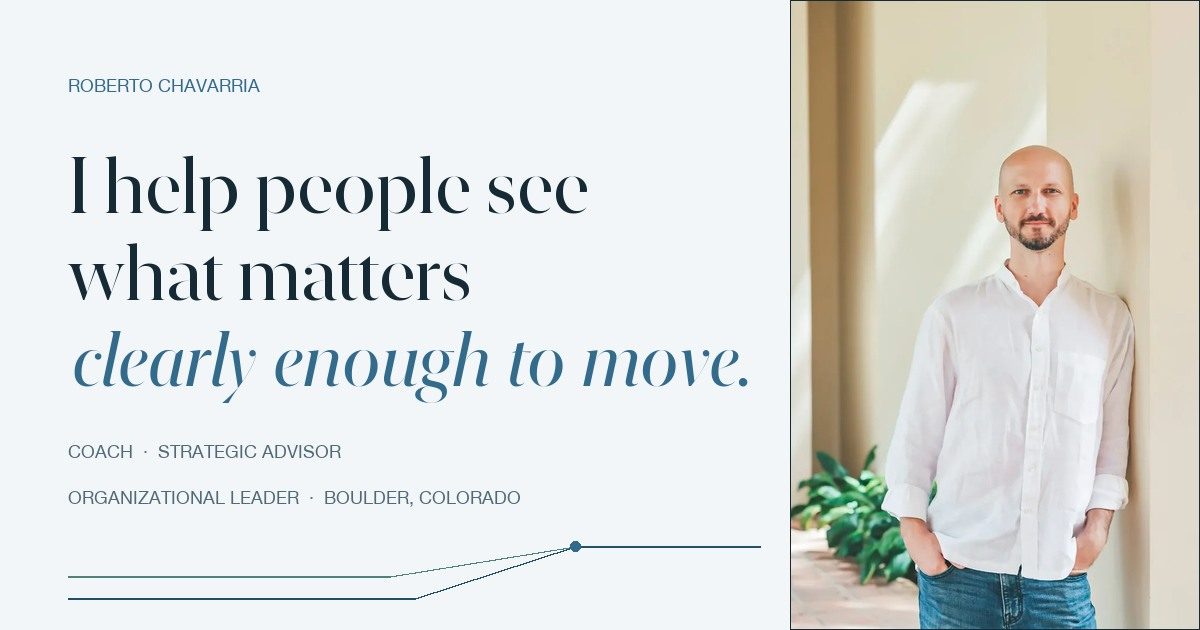
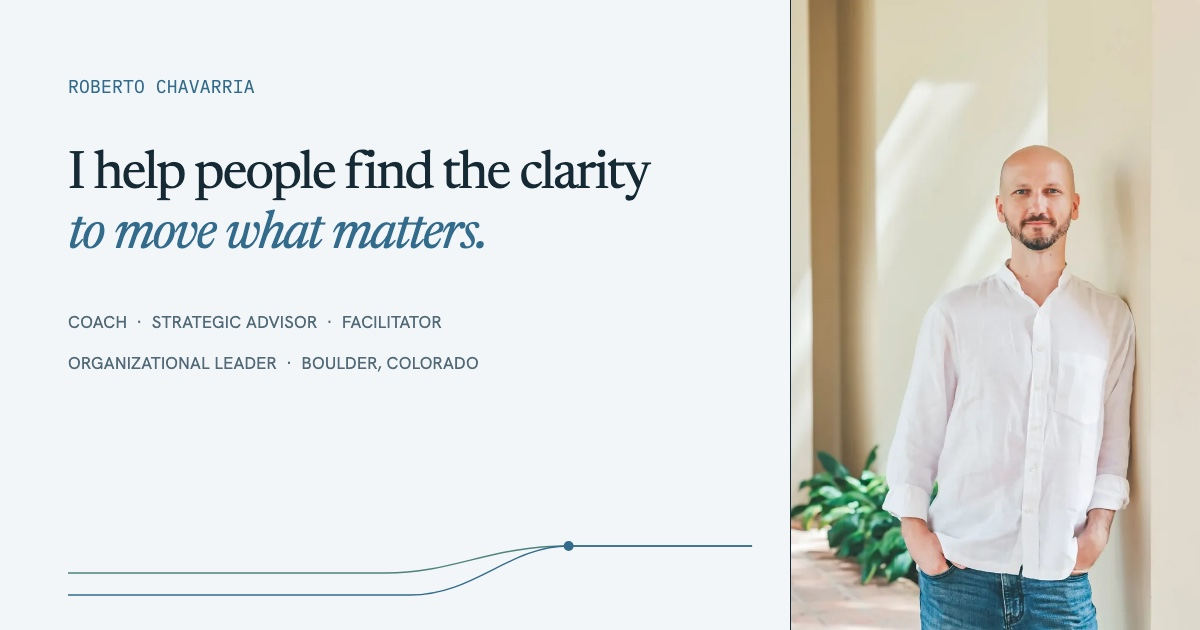
refresh personal site positioning and current work

diff --git a/index.html b/index.html
@@ -3,10 +3,10 @@
   <head>
     <meta charset="utf-8">
     <meta name="viewport" content="width=device-width, initial-scale=1">
-    <title>Roberto Chavarria — Coach, strategic advisor, organizational leader</title>
+    <title>Roberto Chavarria — Coach, strategic advisor, facilitator</title>
     <meta
       name="description"
-      content="Roberto Chavarria works through Emerging Clarity and Clearly Audacious and helps lead nonprofit organizations in spiritual education and UAP research and action."
+      content="Roberto Chavarria is a coach, strategic advisor, facilitator, and organizational leader based in Boulder, Colorado. Explore Emerging Clarity, Clearly Audacious, and the organizations he helps carry."
    >
     <link rel="canonical" href="https://robertochavarria.com/">
     <meta name="theme-color" content="#f2f6f8">
@@ -15,10 +15,10 @@
     <meta property="og:title" content="Roberto Chavarria">
     <meta
       property="og:description"
-      content="Coach, strategic advisor, and organizational leader behind Emerging Clarity and Clearly Audacious."
+      content="Coach, strategic advisor, facilitator, and organizational leader behind Emerging Clarity and Clearly Audacious."
    >
     <meta property="og:url" content="https://robertochavarria.com/">
-    <meta property="og:image" content="https://robertochavarria.com/assets/og-image.jpg?v=2">
+    <meta property="og:image" content="https://robertochavarria.com/assets/og-image.jpg?v=3">
     <meta property="og:image:width" content="1200">
     <meta property="og:image:height" content="630">
     <meta name="twitter:card" content="summary_large_image">
@@ -26,7 +26,7 @@
     <link rel="preload" href="/assets/fonts/newsreader-normal-latin.woff2" as="font" type="font/woff2" crossorigin>
     <link rel="preload" href="/assets/fonts/newsreader-italic-latin.woff2" as="font" type="font/woff2" crossorigin>
     <link rel="preload" href="/assets/fonts/hanken-grotesk-latin.woff2" as="font" type="font/woff2" crossorigin>
-    <link rel="stylesheet" href="/styles.css?v=4">
+    <link rel="stylesheet" href="/styles.css?v=5">
     <noscript>
       <style>
         .reveal { opacity: 1 !important; transform: none !important; }
@@ -64,14 +64,14 @@
           <div class="hero-copy">
             <p class="eyebrow">From Costa Rica · Based in Boulder, Colorado</p>
             <h1 id="hero-title">
-              I help people see what matters <em>clearly enough to move.</em>
+              I help people find the clarity <em>to move what matters.</em>
             </h1>
             <div class="hero-intro">
               <p>
-                That work takes different forms. I coach people who can feel that a chapter of life has to change, advise founders, entrepreneurs, and executives pursuing ambitious goals, and help lead organizations with difficult missions.
+                Sometimes the work begins with a life that no longer fits. Sometimes it begins with an ambitious goal, a difficult decision, or a relationship that has stopped moving. I work with people in both places, and I help carry organizations devoted to connection, spiritual preparation, and questions that may shape our shared future.
               </p>
               <p>
-                At the center is a practice of close attention: understanding what is actually happening, finding the question underneath the noise, and helping insight reach choices, relationships, and action.
+                The settings are different, but my way of working is consistent: pay close attention to what is actually happening, make room for what has not yet been seen or said, and help understanding become a choice, a conversation, or a real next step.
               </p>
             </div>
             <div class="hero-actions">
@@ -109,7 +109,7 @@
           </div>
           <div class="opening-body reveal" data-delay="1">
             <p class="lead">
-              My work has moved through retail operations, startups, early-stage investment, peacebuilding, coaching, facilitation, and organizational leadership.
+              My work has moved through retail operations, startups, early-stage investment, peacebuilding, coaching, relational practice, facilitation, and organizational leadership. It has also moved through my own thresholds: leaving work that still rewarded me, beginning again without a full map, and learning how much honesty and responsibility real change asks of us.
             </p>
             <ul class="question-list" aria-label="Questions that guide Roberto's work">
               <li>What is actually happening here?</li>
@@ -118,7 +118,7 @@
               <li>What would help the next step become possible?</li>
             </ul>
             <p>
-              These questions belong as much to a person at a threshold as they do to a founder or entrepreneur leading a company. They are the thread connecting my work.
+              These questions belong as much to a person at a threshold as they do to a founder, entrepreneur, or executive leading a company. They are also present whenever people try to build a community or carry a consequential mission together. They are the thread connecting my work.
             </p>
           </div>
         </div>
@@ -158,9 +158,9 @@
                 <span class="practice-kind">Strategic Clarity Consulting</span>
               </div>
               <div class="practice-copy">
-                <h3>When an important goal needs stronger support than it is getting.</h3>
+                <h3>When something is standing between you and an important goal.</h3>
                 <p>
-                  Strategic advising and executive coaching for founders, entrepreneurs, and executives. The work helps leaders address consequential decisions, difficult relationships, strategy, communication, and execution while staying connected to what they are trying to make possible.
+                  Strategic advising and executive coaching for founders, entrepreneurs, and executives. I become an ongoing strategic partner: learning the business, bringing an independent point of view, and helping address the decisions, relationships, strategy, and execution issues slowing progress.
                 </p>
               </div>
               <a class="practice-link" href="https://clearlyaudacious.com/">
@@ -178,19 +178,19 @@
       <section class="involved section" id="involved" aria-labelledby="involved-title">
         <div class="wrap">
           <div class="involved-intro reveal">
-            <p class="eyebrow eyebrow--light">Current organizational roles</p>
-            <h2 id="involved-title">Alongside my practices, I help lead two organizations.</h2>
+            <p class="eyebrow eyebrow--light">Organizations I help carry</p>
+            <h2 id="involved-title">Some of my work can only happen with other people.</h2>
             <p>
-              I value staying close to the complexity of holding real responsibility with other people, where vision has to become relationships, decisions, systems, and sustained effort.
+              I value the discipline of building with others: letting a shared purpose test our relationships, deepen our practice, and ask us to turn vision into decisions, systems, and sustained effort.
             </p>
           </div>
 
           <div class="involvement-grid">
             <article class="involvement reveal">
-              <span class="role">Organizational leadership</span>
-              <h3>The Society for the New Message</h3>
+              <span class="role">Spiritual education and preparation</span>
+              <h3>The Society for the Way of Knowledge</h3>
               <p>
-                My work with the Society for the New Message focuses on strategy, communication, systems, and the organizational capacity behind its spiritual education and preparation.
+                My work with the Society for the Way of Knowledge focuses on strategy, communication, systems, and the organizational capacity needed to bring its spiritual education and preparation into the world.
               </p>
               <a href="https://www.newmessage.org/">Visit the Society <span aria-hidden="true">↗</span></a>
             </article>
@@ -202,6 +202,15 @@
                 I help lead Human Institute, a nonprofit research-and-action organization focused on the scientific, societal, and governance implications of unidentified anomalous phenomena and potential non-human intelligence.
               </p>
               <a href="https://humaninstitute.org/">Visit Human Institute <span aria-hidden="true">↗</span></a>
+            </article>
+
+            <article class="involvement reveal" data-delay="2">
+              <span class="role">Co-founder and core facilitator</span>
+              <h3>Colorado Connection Collective</h3>
+              <p>
+                I cofounded the Colorado Connection Collective with friends and fellow facilitators in Boulder. We create direct experiences of meaningful human connection and help people develop the relational capacities to listen, speak, and meet one another with greater agency and grace.
+              </p>
+              <a href="https://coloradoconnectioncollective.com/">Visit the Collective <span aria-hidden="true">↗</span></a>
             </article>
           </div>
 
@@ -241,7 +250,7 @@
               I have left work that was still rewarding me, started ventures that taught me more than they returned, found myself in rooms where capable people were using the same words for different realities, and crossed thresholds that required more honesty than I knew how to offer at first.
             </p>
             <p>
-              Those experiences deepened my interest in inner authority, responsibility, relationship, communication, and the way a real insight reorganizes ordinary life. I am still learning how to listen well, speak more truthfully, carry responsibility without disappearing inside it, and participate fully in the life in front of me.
+              Those experiences deepened my interest in inner authority, responsibility, relationship, communication, and the way a real insight reorganizes ordinary life. Relational practice and facilitation have made that inquiry less solitary: they keep showing me what becomes possible when people listen beyond their first interpretation and risk being more fully known. I am still learning how to listen well, speak more truthfully, carry responsibility without disappearing inside it, and participate fully in the life in front of me.
             </p>
             <div class="path-note">
               <span>Along the way</span>
@@ -249,7 +258,7 @@
                 <li>B.S. in Science, Technology &amp; Society, Stanford University</li>
                 <li>Entrepreneurship and early-stage investment</li>
                 <li>Seven years inside a peacebuilding incubator</li>
-                <li>Strategy, organizational learning, facilitation, and leadership</li>
+                <li>Strategy, organizational learning, relational facilitation, and leadership</li>
                 <li>An ongoing practice of reflection, relationship, and inner listening</li>
               </ul>
             </div>

diff --git a/styles.css b/styles.css
@@ -1,5 +1,5 @@
 /* Roberto Chavarria — personal site
-   Shared family typography, personal palette, and a two-path confluence motif. */
+   Shared family typography, personal palette, and a confluence motif. */
 
 @font-face {
   font-family: "Hanken Grotesk";
@@ -836,7 +836,7 @@ p {
 
 .involvement-grid {
   display: grid;
-  grid-template-columns: repeat(2, minmax(0, 1fr));
+  grid-template-columns: repeat(3, minmax(0, 1fr));
   gap: 1px;
   margin-top: 70px;
   background: var(--light-line);
@@ -844,8 +844,8 @@ p {
 }
 
 .involvement {
-  min-height: 410px;
-  padding: clamp(34px, 5vw, 58px);
+  min-height: 480px;
+  padding: clamp(30px, 3.5vw, 46px);
   background: rgba(21, 42, 53, 0.96);
   display: flex;
   flex-direction: column;
@@ -863,7 +863,7 @@ p {
   max-width: 13ch;
   margin-top: 25px;
   color: var(--paper-soft);
-  font-size: clamp(31px, 3.3vw, 45px);
+  font-size: clamp(29px, 2.8vw, 41px);
   font-weight: 360;
   line-height: 1.04;
 }
@@ -1151,6 +1151,8 @@ p {
   .hero-copy h1 { font-size: clamp(52px, 7vw, 77px); }
 
   .practice-card { min-height: 660px; }
+  .involvement-grid { grid-template-columns: repeat(2, minmax(0, 1fr)); }
+  .involvement:last-child { grid-column: 1 / -1; min-height: 390px; }
   .personal-images { min-height: 610px; }
 }
 
@@ -1206,6 +1208,7 @@ p {
   .involved-intro { grid-template-columns: 1fr; }
   .involved-intro > p:last-child { margin-top: 26px; max-width: 64ch; }
   .involvement-grid { grid-template-columns: 1fr; }
+  .involvement:last-child { grid-column: auto; }
   .involvement { min-height: 360px; }
 
   .personal-images { min-height: 720px; width: min(100%, 600px); margin: 0 auto; }

diff --git a/README.md b/README.md
@@ -2,7 +2,7 @@
 
 Production source for [robertochavarria.com](https://robertochavarria.com), Roberto Chavarria’s personal umbrella site.
 
-The site introduces Roberto holistically, provides the parent context for his two practices—[Emerging Clarity](https://emergingclarity.com) and [Clearly Audacious](https://clearlyaudacious.com)—and briefly names the other organizations and work he helps carry.
+The site introduces Roberto holistically, provides the parent context for his two practices—[Emerging Clarity](https://emergingclarity.com) and [Clearly Audacious](https://clearlyaudacious.com)—and orients visitors to the Society for the Way of Knowledge, Human Institute, and the [Colorado Connection Collective](https://coloradoconnectioncollective.com).
 
 ## Structure
 
